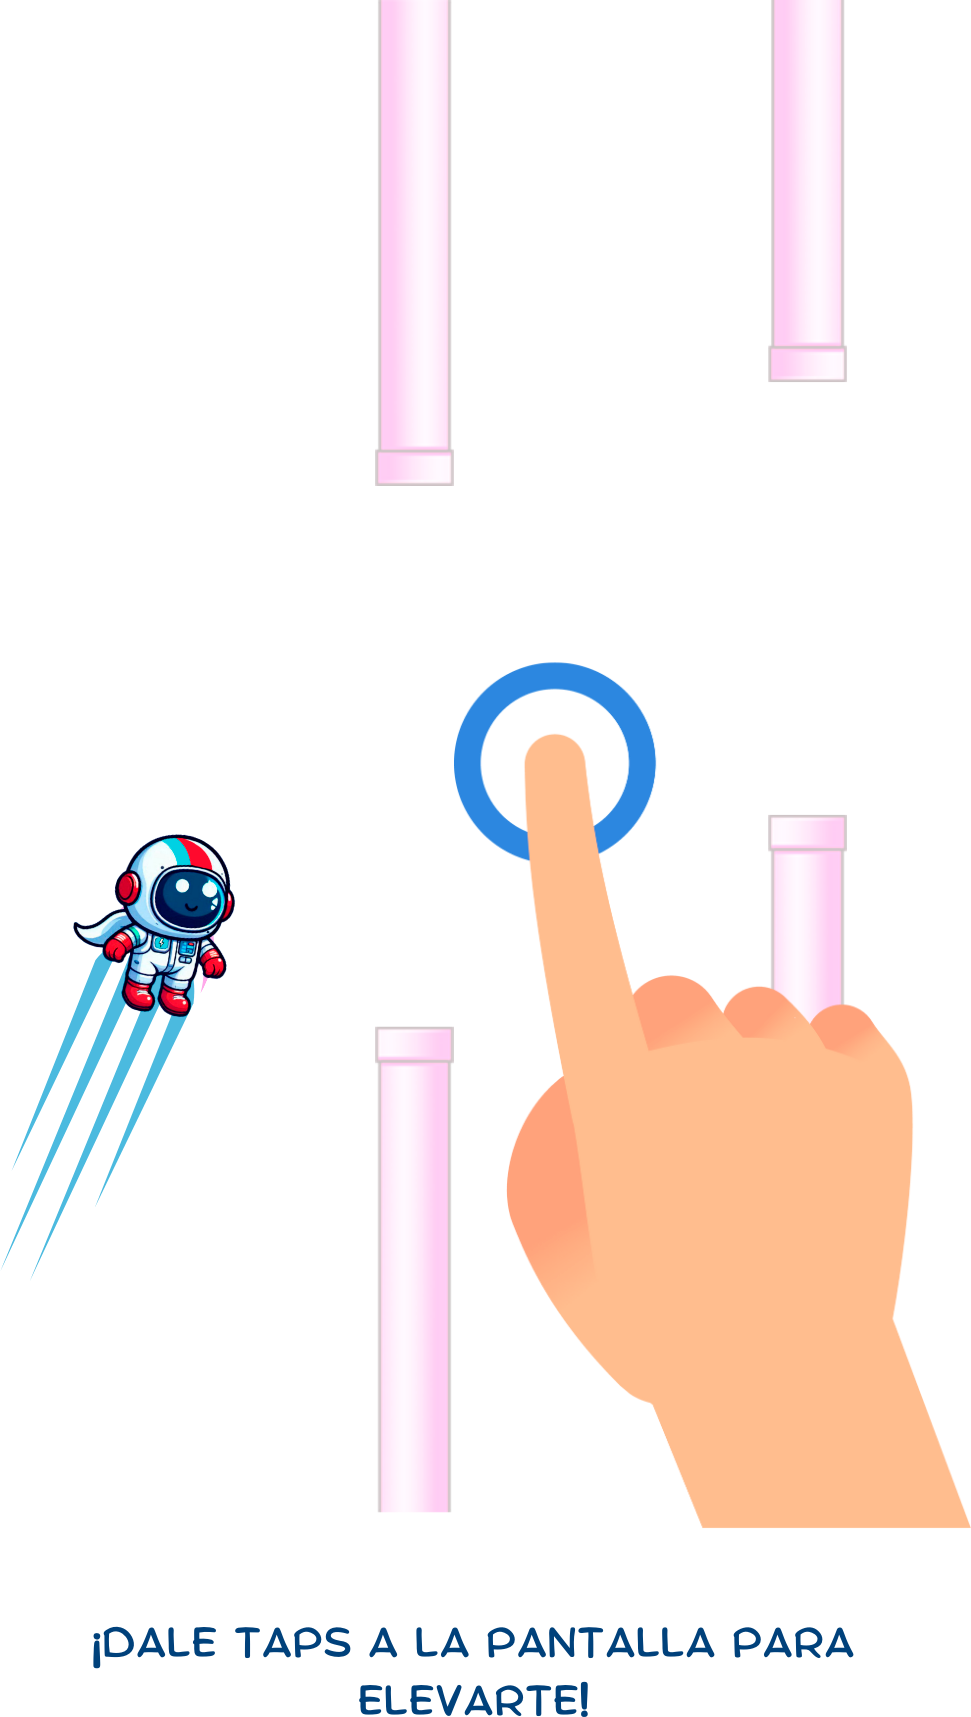
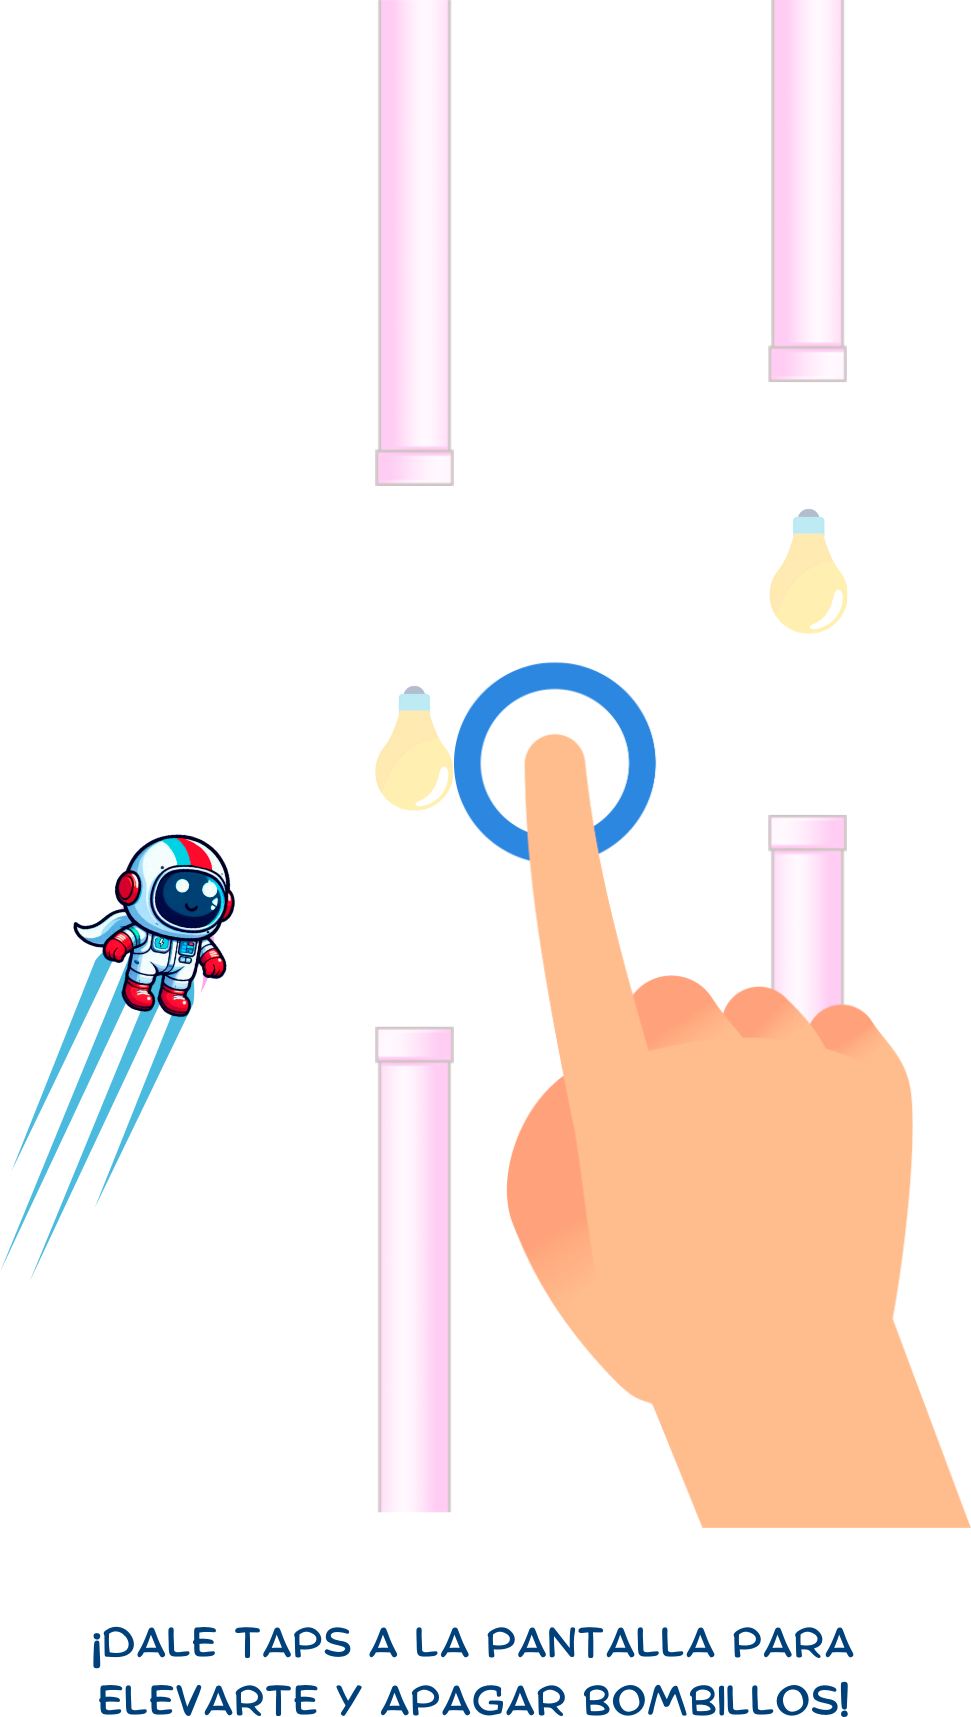
mejoras visuales

Changed region(s): [[0.0927, 0.9569, 0.896, 1.0], [0.7724, 0.2778, 0.896, 0.3704], [0.3708, 0.4013, 0.4634, 0.4939]]

diff --git a/lib/presentation/screens/games/flappy/flappy_intro_screen.dart b/lib/presentation/screens/games/flappy/flappy_intro_screen.dart
@@ -3,6 +3,7 @@ import 'package:animate_do/animate_do.dart';
 import 'package:flutter/material.dart';
 import 'package:go_router/go_router.dart';
 
+import '../../../widgets/ui/ui.dart';
 import '../assets.dart';
 
 
@@ -85,7 +86,7 @@ class _FlappyIntroScreenState extends State<FlappyIntroScreen> {
               ),
             ) : const SizedBox(),
             endReached ? Positioned(
-              left: size.width * 0.01,
+              left: size.width * 0.03,
               top: size.height * 0.11,
               child: FadeInLeft(
                 from: 15,
@@ -96,14 +97,6 @@ class _FlappyIntroScreenState extends State<FlappyIntroScreen> {
                 ),
               ),
             ): const SizedBox(),
-            Positioned(
-              bottom: 35,
-              right: 30,
-              child: TextButton(
-                child: Image.asset( Assets.home, height: size.height * 0.07,),
-                onPressed: () { context.pop();}
-              ),          
-            ),
              Positioned(
                bottom: 30,
                left: size.width * 0.35,
@@ -112,7 +105,8 @@ class _FlappyIntroScreenState extends State<FlappyIntroScreen> {
         
           ],
         ),
-      )
+      ),
+      floatingActionButton: const HomeButton(),
     );
   }
 }

diff --git a/lib/presentation/screens/games/flappy/game_over_screen.dart b/lib/presentation/screens/games/flappy/game_over_screen.dart
@@ -20,17 +20,22 @@ class GameOverScreen extends StatelessWidget {
           child: Column(
             mainAxisSize: MainAxisSize.min,
             children: [
+
+              Image.asset(Assets.gameOver, width: size.width * 0.80,),
+              SizedBox(height: size.height * 0.07),
+
+              Image.asset('assets/images/games/flappy/bulbOn.png', width: size.width * 0.09,),              
+              SizedBox(height: size.height * 0.01),
               Text(
-                'puntaje: ${game.bird.score}',
+                'APAGASTE: ${game.bird.score}',
                 style: const TextStyle(
-                  fontSize: 60,
+                  fontSize: 50,
                   color: Colors.amberAccent,
                   fontFamily: 'Game',
                 ),
               ),
-              const SizedBox(height: 20),
-              Image.asset(Assets.gameOver, width: size.width * 0.75,),
-              const SizedBox(height: 20),
+                           
+              SizedBox(height: size.height * 0.05),
               ElevatedButton(
                 onPressed: onRestart,
                 style: ElevatedButton.styleFrom(backgroundColor: Colors.blueAccent),

diff --git a/lib/presentation/screens/home/home_screen.dart b/lib/presentation/screens/home/home_screen.dart
@@ -14,7 +14,8 @@ class HomeScreen extends StatelessWidget {
   @override
   Widget build(BuildContext context) {
     return const Scaffold(
-      body: _HomeView()
+      body: _HomeView(),
+      floatingActionButton: ExitButton(),
     );
   }
 }
@@ -60,7 +61,6 @@ class _HomeViewState extends ConsumerState<_HomeView> {
                   }, ), 
                 ]
               ),
-              const ExitButton()
             ],
           ),
         ),
@@ -96,28 +96,3 @@ class _MenuQuestionItem extends StatelessWidget {
     );
   }
 }
-
-
-// class _CustomListTittle extends StatelessWidget {
-//   const _CustomListTittle({
-//     required this.menuItem,
-//   });
-
-//   final MenuItem menuItem;
-
-//   @override
-//   Widget build(BuildContext context) {
-
-//     final colors = Theme.of(context).colorScheme;
-
-//     return ListTile(
-//       leading: Icon( menuItem.icon, color: colors.primary, ),
-//       trailing: Icon( Icons.arrow_forward_ios_outlined, color: colors.primary),
-//       title: Text(menuItem.title),
-//       subtitle: Text(menuItem.subTitle),
-//       onTap: (){ 
-//         context.push( menuItem.link );
-//       },
-//     );
-//   }
-// }

diff --git a/lib/presentation/widgets/ui/exit_button.dart b/lib/presentation/widgets/ui/exit_button.dart
@@ -1,5 +1,6 @@
 import 'package:energyadventure/presentation/screens/games/assets.dart';
 import 'package:flutter/material.dart';
+import 'package:flutter/services.dart';
 
 class ExitButton extends StatelessWidget {
   const ExitButton({super.key});
@@ -9,13 +10,9 @@ class ExitButton extends StatelessWidget {
 
     final size = MediaQuery.of(context).size;
 
-    return  Positioned(
-      bottom: 15,
-      right: 15,
-      child: TextButton(
-        child: Image.asset( Assets.exit, height: size.height * 0.06,),
-        onPressed: () { }
-      ),          
+    return TextButton(
+      child: Image.asset( Assets.exit, height: size.height * 0.07,),
+      onPressed: () { SystemNavigator.pop(); }         
     );
   }
 }

diff --git a/lib/domain/entities/flappy_game/flappy_bird_game.dart b/lib/domain/entities/flappy_game/flappy_bird_game.dart
@@ -45,7 +45,7 @@ class FlappyBirdGame extends FlameGame with TapDetector, HasCollisionDetection {
         anchor: Anchor.center,
         textRenderer: TextPaint(
           style: const TextStyle(
-              fontSize: 40, fontFamily: 'Game', fontWeight: FontWeight.bold),
+              fontSize: 40, fontFamily: 'Game', fontWeight: FontWeight.bold, color: Colors.amberAccent,),
         ));
   }
 
@@ -60,7 +60,7 @@ class FlappyBirdGame extends FlameGame with TapDetector, HasCollisionDetection {
   void update(double dt) {
     super.update(dt);
     interval.update(dt);
-    score.text = 'puntaje: ${bird.score}';
+    score.text = 'BOMBILLOS: ${bird.score}';
   }
 
   // Métodos para pausar y reanudar el juego

diff --git a/lib/presentation/widgets/ui/back_button.dart b/lib/presentation/widgets/ui/back_button.dart
@@ -13,13 +13,10 @@ class MyBackButton extends StatelessWidget {
 
     final size = MediaQuery.of(context).size;
 
-    return  Positioned(
-      bottom: 15,
-      right: 15,
-      child: TextButton(
-        child: Image.asset( Assets.back, height: size.height * 0.06,),
-        onPressed: () { replacement != '' ? context.replaceNamed(replacement ?? '/') : context.pop(); }
-      ),          
+    return 
+      TextButton(
+        child: Image.asset( Assets.back, height: size.height * 0.07,),
+        onPressed: () { replacement != '' ? context.replaceNamed(replacement ?? '/') : context.pop(); }          
     );
   }
 }

diff --git a/lib/presentation/widgets/ui/home_button.dart b/lib/presentation/widgets/ui/home_button.dart
@@ -13,13 +13,9 @@ class HomeButton extends StatelessWidget {
 
     final size = MediaQuery.of(context).size;
 
-    return  Positioned(
-      bottom: 15,
-      right: 15,
-      child: TextButton(
-        child: Image.asset( Assets.home, height: size.height * 0.07,),
-        onPressed: () { replacement == true ? context.pushReplacement('/') : context.pop(); }
-      ),          
+    return  TextButton(
+      child: Image.asset( Assets.home, height: size.height * 0.07,),
+      onPressed: () { replacement == true ? context.pushReplacement('/') : context.pop(); }          
     );
   }
 }

diff --git a/lib/presentation/screens/games/flappy/flappy_screen.dart b/lib/presentation/screens/games/flappy/flappy_screen.dart
@@ -39,7 +39,7 @@ class FlappyScreen extends StatelessWidget {
             height: size.height * 0.25, // Ajusta el alto de la imagen
             child: Image.asset(
               Assets.play,
-              fit: BoxFit.cover, // Mantén la imagen con su tamaño original
+              fit: BoxFit.cover, // magen con su tamaño original
             ),
           ),
         ),

diff --git a/lib/presentation/screens/games/questions/questions_screen.dart b/lib/presentation/screens/games/questions/questions_screen.dart
@@ -63,10 +63,11 @@ class _GameQuestionsViewState extends State<_GameQuestionsView> {
                 }
               },
             ),
-            const MyBackButton(),
+            //const MyBackButton(),
           ],
         ),
       ),
+      floatingActionButton: const MyBackButton()
     );
   }
 }

diff --git a/lib/presentation/screens/games/questions/home_questions.dart b/lib/presentation/screens/games/questions/home_questions.dart
@@ -48,11 +48,11 @@ class HomeQuestions extends StatelessWidget {
                   ),
                 ]
               ),
-              HomeButton(replacement: replacement)
             ],
           ),
         ),
       ),
+      floatingActionButton: HomeButton(replacement: replacement),
     );
   }
 }
